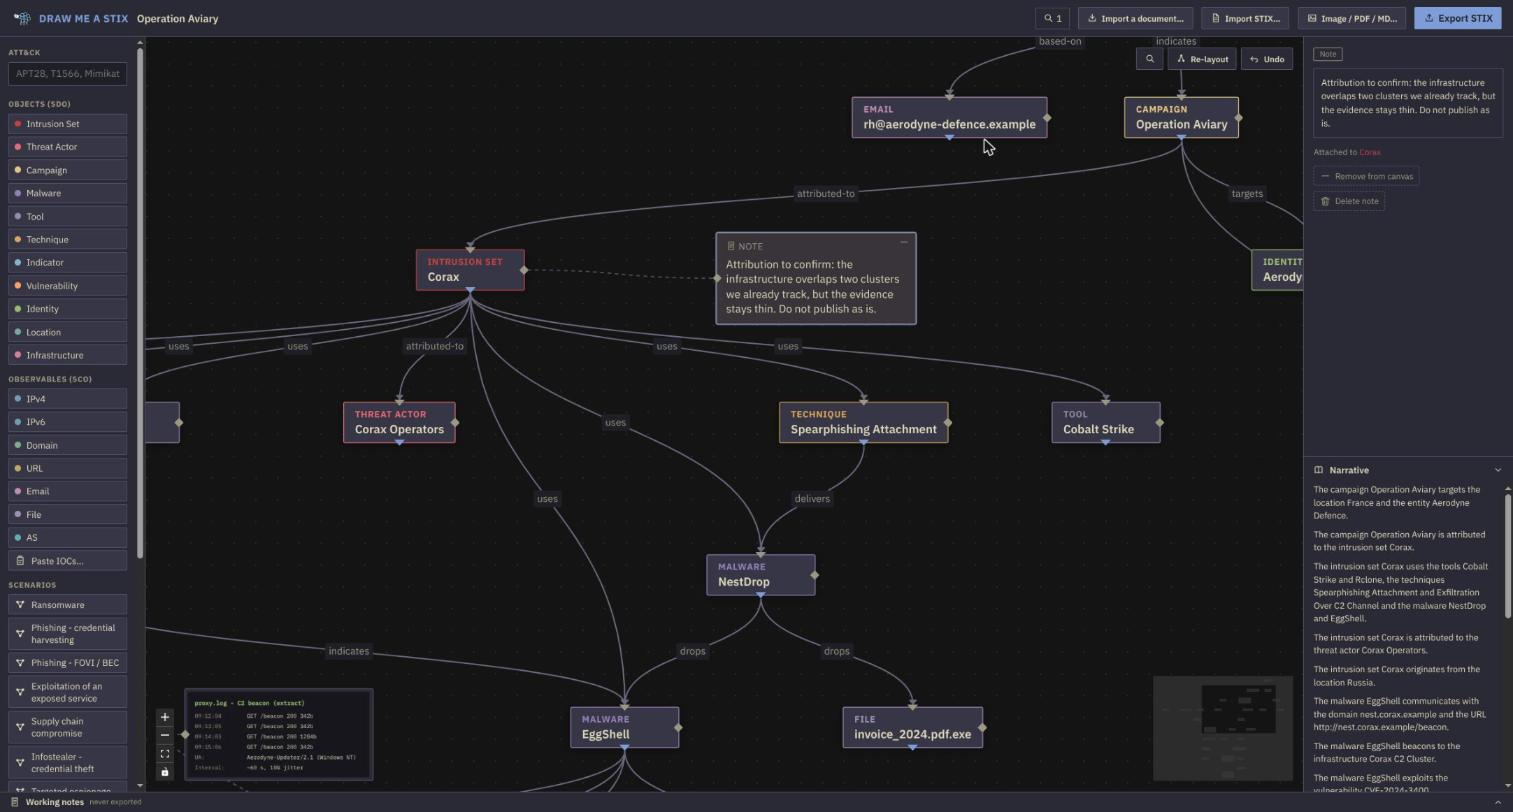
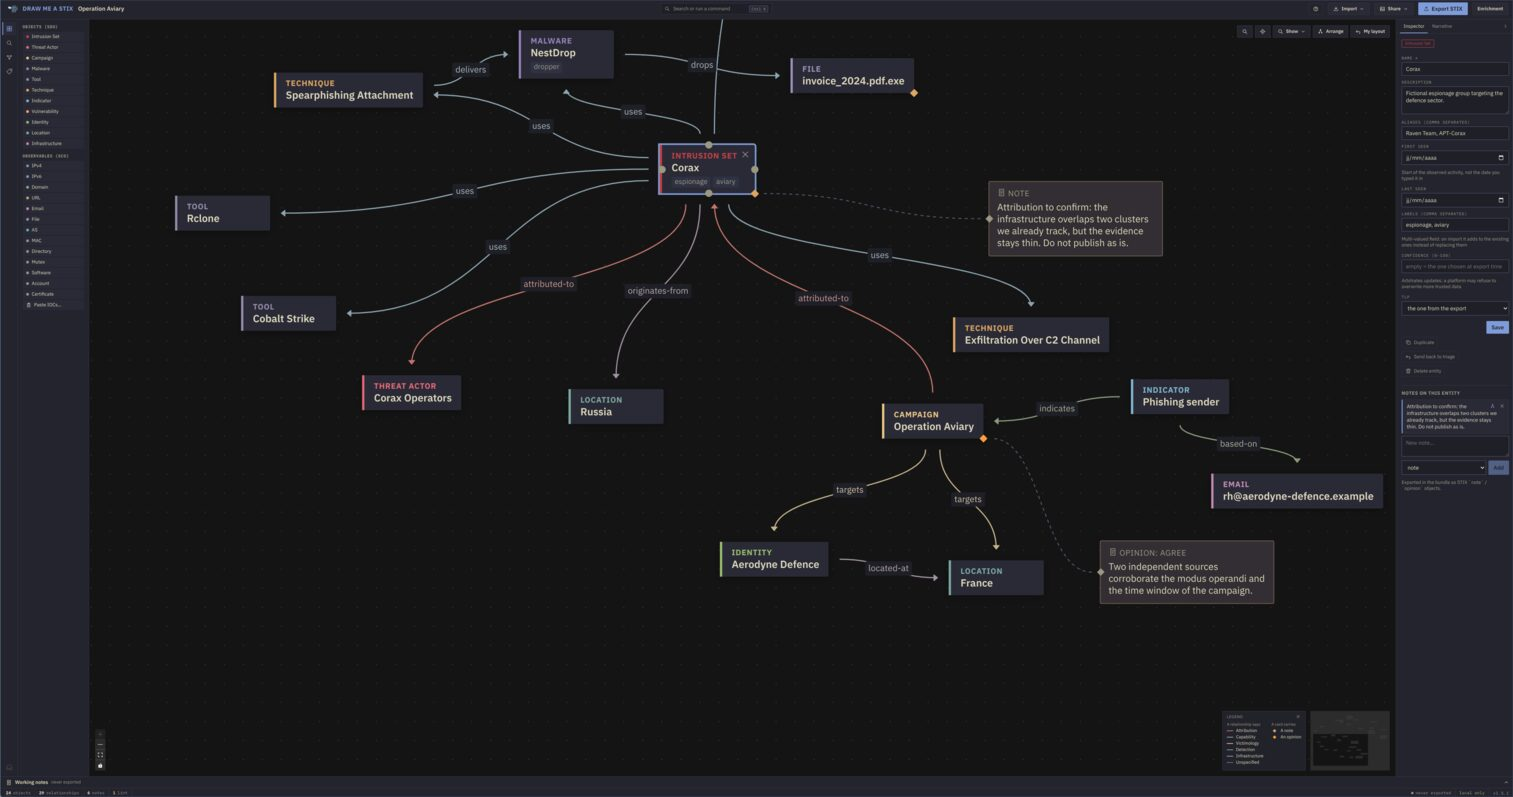
docs: a screenshot of the canvas as it is now
The old one showed the layout that was thrown out, and none of what the
canvas has learned to say since: the graph drawn around what it is about,
the relationships coloured by what they say, the legend, the marks that tell
you an object carries a note.

The alt text followed: it announced the narrative panel, which is not what
is open on the right.

diff --git a/README.md b/README.md
@@ -18,7 +18,7 @@ Draw Me A STIX fills the gap: **structure, annotate, curate** an investigation o
 
 ## What it does
 
-![The Draw Me A STIX canvas showing a fictional investigation: linked STIX objects, analyst notes pinned on the graph, and the narrative panel on the right](docs/screenshot.jpg)
+![The Draw Me A STIX canvas showing a fictional investigation: the graph drawn around the intrusion set it is about, relationships coloured by what they say, analyst notes pinned on it, and the inspector open on the right](docs/screenshot.jpg)
 
 - **A guided canvas.** Drag a link between two objects and only the relationships the STIX 2.1 matrix allows are offered, each with a sentence saying what it means. When no direct link exists (an actor and an IP address, say) it offers the canonical detour rather than a meaningless `related-to`.
 - **A triage tray.** Paste a report or a list of IOCs and everything lands sorted by type. Nothing reaches the canvas without your approval, and nothing you reject is lost: it is undoable.
